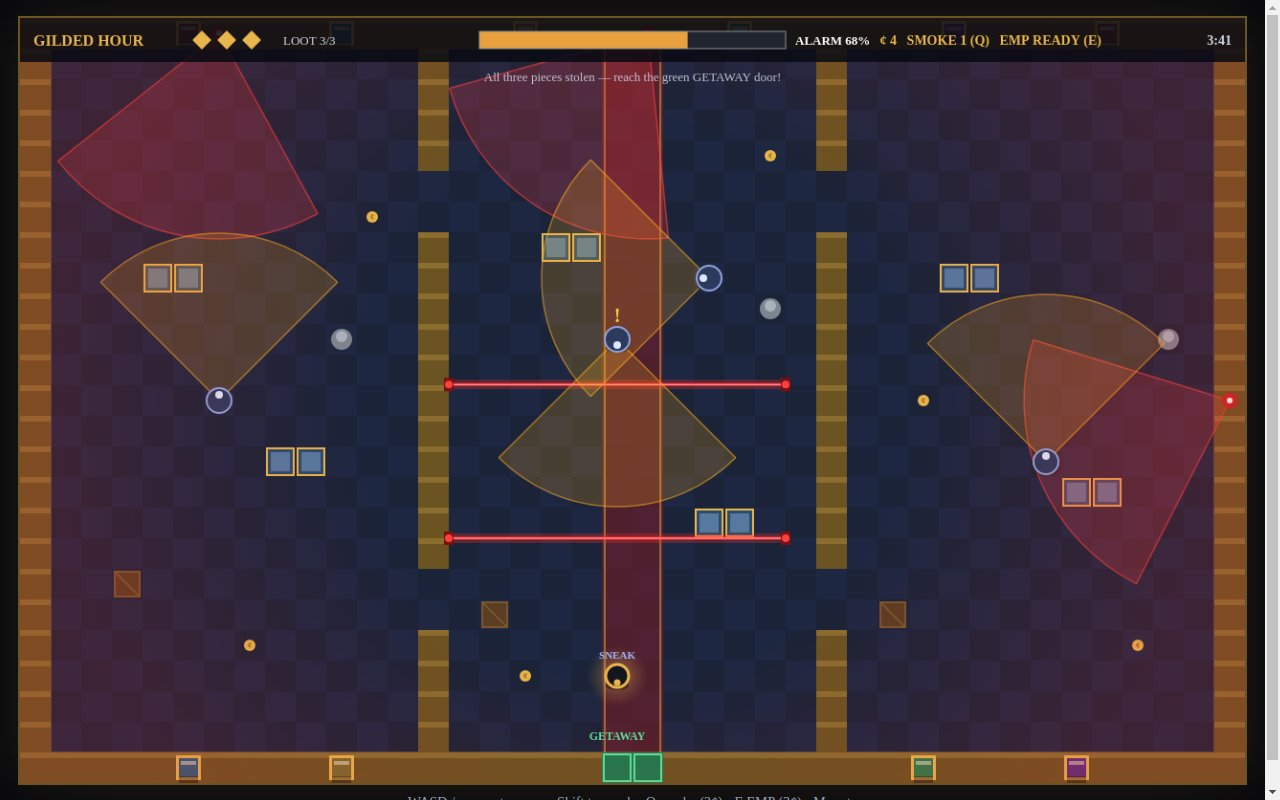
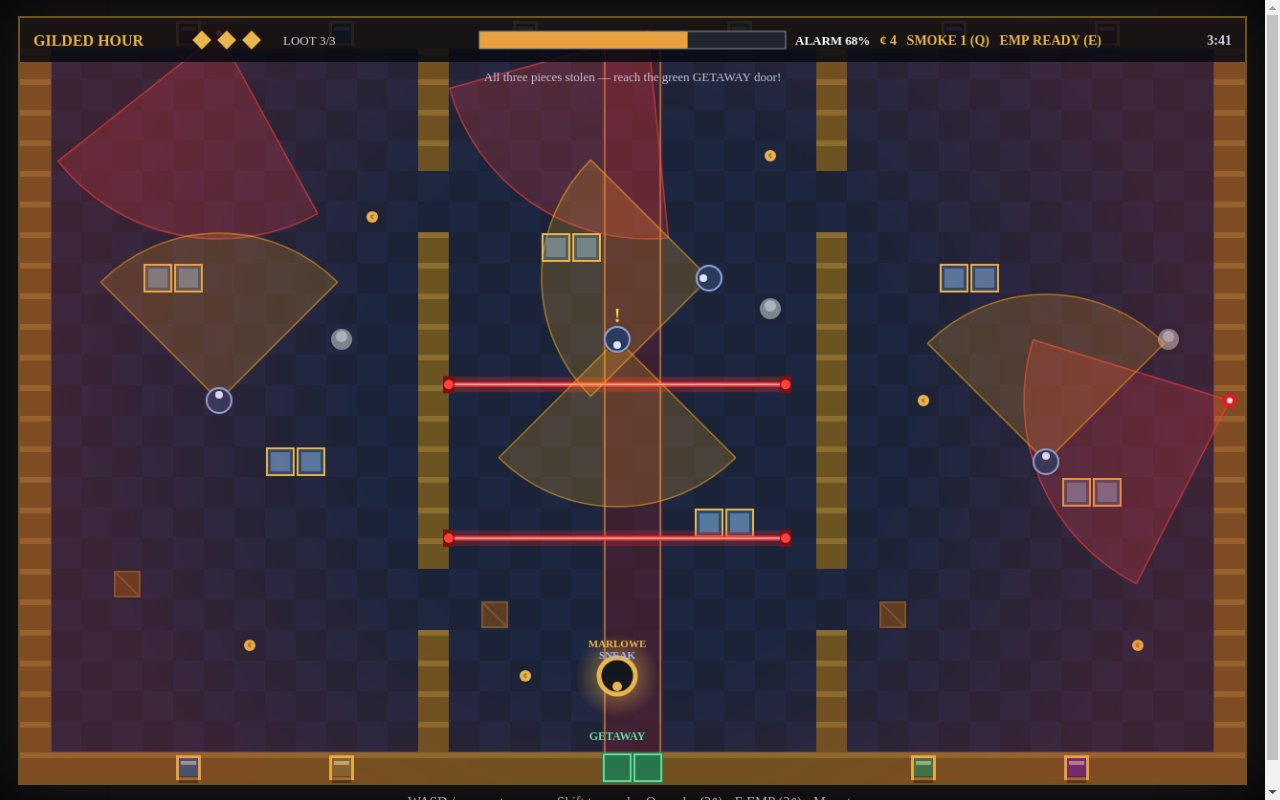
Heist fix r5: Marlowe unmissable, lasers dramatic, loot pops

Changed region(s): [[0.3438, 0.6562, 0.625, 0.6875], [0.3438, 0.4688, 0.625, 0.5], [0.4375, 0.7812, 0.5312, 0.9062]]

diff --git a/game/src/render.js b/game/src/render.js
@@ -44,7 +44,9 @@ function drawFloor(ctx) {
       ctx.fillRect(tx * TILE, ty * TILE, TILE, TILE);
     }
   }
-  ctx.fillStyle = 'rgba(122, 28, 38, 0.55)';
+  // The carpet stays dim on purpose: a loud red carpet would fight the
+  // red camera cones and laser beams. Danger must pop against the floor.
+  ctx.fillStyle = 'rgba(122, 28, 38, 0.35)';
   ctx.fillRect(19 * TILE, TILE, 2 * TILE, (ROWS - 2) * TILE);
   ctx.strokeStyle = 'rgba(232, 182, 76, 0.5)';
   ctx.lineWidth = 2;
@@ -126,21 +128,29 @@ function drawWallsAndCover(ctx, grid) {
   }
 }
 
-/** The three pieces to steal: gold diamonds that sparkle, with labels. */
+/** The three pieces to steal: big gold diamonds that sparkle, with labels.
+ *  Drawn large on purpose — loot must pop at a glance on a contact sheet. */
 function drawLoot(ctx, loot, nowSeconds) {
   for (const piece of loot) {
     if (piece.taken) continue;
     const pulse = 0.7 + 0.3 * Math.sin(nowSeconds * 3 + piece.x);
     const cx = piece.x;
     const cy = piece.y;
+    const glow = ctx.createRadialGradient(cx, cy, 4, cx, cy, 30);
+    glow.addColorStop(0, `rgba(232, 182, 76, ${(0.4 * pulse).toFixed(3)})`);
+    glow.addColorStop(1, 'rgba(232, 182, 76, 0)');
+    ctx.fillStyle = glow;
+    ctx.beginPath();
+    ctx.arc(cx, cy, 30, 0, Math.PI * 2);
+    ctx.fill();
     ctx.save();
     ctx.translate(cx, cy);
     ctx.rotate(Math.PI / 4);
     ctx.fillStyle = `rgba(232, 182, 76, ${pulse})`;
-    ctx.fillRect(-9, -9, 18, 18);
+    ctx.fillRect(-12, -12, 24, 24);
     ctx.strokeStyle = '#fff2c4';
-    ctx.lineWidth = 2;
-    ctx.strokeRect(-9, -9, 18, 18);
+    ctx.lineWidth = 2.5;
+    ctx.strokeRect(-12, -12, 24, 24);
     ctx.restore();
     ctx.fillStyle = '#ffe9a8';
     ctx.font = 'bold 11px Georgia, serif';
@@ -239,31 +249,36 @@ function drawGuards(ctx, guards) {
 }
 
 /** Marlowe, the thief: a dark figure with a gold ring, facing its heading.
- *  A soft gold halo keeps Marlowe visible against the dark floor, even
- *  shrunk to a contact sheet. */
+ *  Marlowe is drawn BIG — body twice the collision radius, a strong gold
+ *  halo, and a MARLOWE name tag — so the protagonist is unmistakable even
+ *  shrunk to a contact sheet. (Collision stays r=12 in main.js.) */
 function drawThief(ctx, thief) {
-  const halo = ctx.createRadialGradient(thief.x, thief.y, 4, thief.x, thief.y, 32);
-  halo.addColorStop(0, 'rgba(232, 182, 76, 0.38)');
+  const halo = ctx.createRadialGradient(thief.x, thief.y, 4, thief.x, thief.y, 44);
+  halo.addColorStop(0, 'rgba(232, 182, 76, 0.55)');
   halo.addColorStop(1, 'rgba(232, 182, 76, 0)');
   ctx.fillStyle = halo;
   ctx.beginPath();
-  ctx.arc(thief.x, thief.y, 32, 0, Math.PI * 2);
+  ctx.arc(thief.x, thief.y, 44, 0, Math.PI * 2);
   ctx.fill();
   ctx.fillStyle = 'rgba(0, 0, 0, 0.4)';
   ctx.beginPath();
-  ctx.ellipse(thief.x, thief.y + 10, 12, 5, 0, 0, Math.PI * 2);
+  ctx.ellipse(thief.x, thief.y + 13, 16, 6, 0, 0, Math.PI * 2);
   ctx.fill();
   ctx.fillStyle = '#14161f';
   ctx.beginPath();
-  ctx.arc(thief.x, thief.y, 12, 0, Math.PI * 2);
+  ctx.arc(thief.x, thief.y, 19, 0, Math.PI * 2);
   ctx.fill();
   ctx.strokeStyle = GOLD;
-  ctx.lineWidth = 3;
+  ctx.lineWidth = 5;
   ctx.stroke();
   ctx.fillStyle = GOLD;
   ctx.beginPath();
-  ctx.arc(thief.x + Math.cos(thief.angle) * 7, thief.y + Math.sin(thief.angle) * 7, 3.5, 0, Math.PI * 2);
+  ctx.arc(thief.x + Math.cos(thief.angle) * 11, thief.y + Math.sin(thief.angle) * 11, 5, 0, Math.PI * 2);
   ctx.fill();
+  ctx.fillStyle = GOLD;
+  ctx.font = 'bold 11px Georgia, serif';
+  ctx.textAlign = 'center';
+  ctx.fillText('MARLOWE', thief.x, thief.y - 30);
   if (thief.sneaking) {
     ctx.fillStyle = '#9fb4ff';
     ctx.font = 'bold 11px Georgia, serif';
@@ -274,25 +289,28 @@ function drawThief(ctx, thief) {
 
 /** Laser grids: bright red beams sweeping the middle gallery, with
  *  emitter boxes on both ends. A beam that touches Marlowe feeds the
- *  alarm — smoke hides you from eyes, not from light. */
+ *  alarm — smoke hides you from eyes, not from light. The beam pulses
+ *  and is drawn thick on purpose: it is the game's signature hook and
+ *  must read at a glance on a contact sheet. */
 function drawLasers(ctx, lasers, nowSeconds) {
   for (const laser of lasers) {
     const y = laserBeamY(laser, nowSeconds);
+    const pulse = 0.8 + 0.2 * Math.sin(nowSeconds * 4 + laser.index * 2);
     // Wide glow, then a hot core: readable even on a contact sheet.
-    ctx.strokeStyle = 'rgba(255, 45, 45, 0.28)';
-    ctx.lineWidth = 10;
+    ctx.strokeStyle = `rgba(255, 45, 45, ${(0.35 * pulse).toFixed(3)})`;
+    ctx.lineWidth = 16;
     ctx.beginPath();
     ctx.moveTo(laser.x0, y);
     ctx.lineTo(laser.x1, y);
     ctx.stroke();
     ctx.strokeStyle = '#ff2d2d';
-    ctx.lineWidth = 3;
+    ctx.lineWidth = 5;
     ctx.beginPath();
     ctx.moveTo(laser.x0, y);
     ctx.lineTo(laser.x1, y);
     ctx.stroke();
     ctx.strokeStyle = '#ffb3b3';
-    ctx.lineWidth = 1;
+    ctx.lineWidth = 1.5;
     ctx.beginPath();
     ctx.moveTo(laser.x0, y);
     ctx.lineTo(laser.x1, y);
@@ -300,10 +318,10 @@ function drawLasers(ctx, lasers, nowSeconds) {
     // Emitters on both ends.
     for (const ex of [laser.x0, laser.x1]) {
       ctx.fillStyle = '#7a1010';
-      ctx.fillRect(ex - 5, y - 7, 10, 14);
+      ctx.fillRect(ex - 6, y - 9, 12, 18);
       ctx.fillStyle = '#ff4040';
       ctx.beginPath();
-      ctx.arc(ex, y, 4, 0, Math.PI * 2);
+      ctx.arc(ex, y, 5, 0, Math.PI * 2);
       ctx.fill();
     }
   }

diff --git a/README.md b/README.md
@@ -13,9 +13,10 @@ the wardens or the wall cameras raise the alarm to full.
 - **Top-down stealth on one screen:** four patrolling wardens with amber
   vision cones, three sweeping red cameras, and an alarm meter that climbs
   whenever you are seen — and falls again when you break sight.
-- **Laser grids in the middle gallery:** two red beams sweep up and down —
-  cross between sweeps, because a beam that touches you feeds the alarm,
-  and smoke hides you from eyes, not from light.
+- **Marlowe, unmissable:** the thief is drawn big — a dark figure with a thick
+  gold ring, a strong gold halo and a MARLOWE name tag — readable at a glance
+  even on the contact sheet. The laser beams are thick, pulsing red with
+  glowing emitters, so the signature hook reads at a glance too.
 - **Several routes per room:** two doorways through every partition wall,
   display cases and statues to hide behind.
 - **Tools at a cost:** smoke pellets (2 coins) blind every cone, EMP
